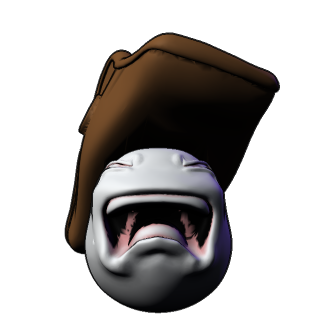
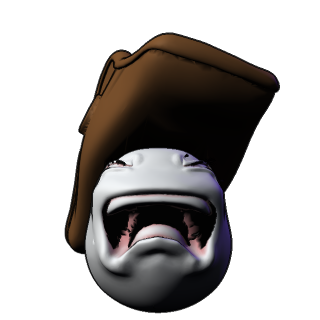
Room box mouth: follows the loudness of Skippy's voice (hub sends a digit per 60 ms), feathered shaded patch, tongue

diff --git a/services/satellite/rooms/avatar/render.html b/services/satellite/rooms/avatar/render.html
@@ -50,7 +50,8 @@ if (HEADMODE) {
   let skin = [0, 0, 0, 0];
   for (let i = 0; i < col.count; i++) if (!isRed(i) && col.getX(i) > 0.55 && col.getY(i) > 0.55) { skin[0] += col.getX(i); skin[1] += col.getY(i); skin[2] += col.getZ(i); skin[3]++; }
   const mv = []; for (let i = 0; i < col.count; i++) if (isRed(i)) mv.push(i);
-  const pos0 = pos.array.slice(), col0 = col.array.slice(), sk = skin.map(v => v / skin[3]);
+  const flat = (at) => { const o = new Float32Array(at.count * 3); for (let i = 0; i < at.count; i++) { o[i * 3] = at.getX(i); o[i * 3 + 1] = at.getY(i); o[i * 3 + 2] = at.getZ(i); } return o; };
+  const nrm = g.getAttribute("normal"), nrm0 = flat(nrm), pos0 = flat(pos), col0 = col.array.slice(), sk = skin.map(v => v / skin[3]);
   const mean = new THREE.Vector3(), all = new THREE.Vector3();
   for (const i of mv) mean.add(new THREE.Vector3(pos0[i * 3], pos0[i * 3 + 1], pos0[i * 3 + 2]));
   for (let i = 0; i < pos.count; i++) all.add(new THREE.Vector3(pos0[i * 3], pos0[i * 3 + 1], pos0[i * 3 + 2]));
@@ -59,11 +60,12 @@ if (HEADMODE) {
   // open: 1 = as modelled, 0 = the cavity pushed out to the lip plane and painted skin (the box draws the closed line over it)
   const setOpen = open => {
     for (const i of mv) {
-      const d = pos0[i * 3] * dir.x + pos0[i * 3 + 1] * dir.y + pos0[i * 3 + 2] * dir.z, k = 0 * (rim - d) * (1 - open);
+      const d = pos0[i * 3] * dir.x + pos0[i * 3 + 1] * dir.y + pos0[i * 3 + 2] * dir.z, k = (rim - d) * (1 - open);
       pos.setXYZ(i, pos0[i * 3] + dir.x * k, pos0[i * 3 + 1] + dir.y * k, pos0[i * 3 + 2] + dir.z * k);
+      nrm.setXYZ(i, nrm0[i * 3] + (dir.x - nrm0[i * 3]) * (1 - open), nrm0[i * 3 + 1] + (dir.y - nrm0[i * 3 + 1]) * (1 - open), nrm0[i * 3 + 2] + (dir.z - nrm0[i * 3 + 2]) * (1 - open));
       for (let c = 0; c < 3; c++) col.array[i * col.itemSize + c] = sk[c] + (col0[i * col.itemSize + c] - sk[c]) * open;
     }
-    pos.needsUpdate = true; col.needsUpdate = true;
+    pos.needsUpdate = true; col.needsUpdate = true; nrm.needsUpdate = true;
   };
   console.log("mouth vertices", mv.length, "dir", dir.toArray());
   mouth = { idx: mv, pos, setOpen };

diff --git a/services/satellite/esphome_link.py b/services/satellite/esphome_link.py
@@ -26,6 +26,20 @@ def _voice_seconds(voice) -> float:
     return len(voice[1]) / (2 * voice[2])
 
 
+def envelope(pcm: bytes, step_ms: int = 60, rate: int = 16000, cap: int = 250) -> str:
+    """One digit per `step_ms` of 16 kHz mono s16le audio: its loudness, 0 (silent) to 9 (as loud as the clip gets)."""
+    import array
+    import math
+    a = array.array("h")
+    a.frombytes(pcm[:len(pcm) // 2 * 2])
+    n = rate * step_ms // 1000
+    levels = [math.sqrt(sum(x * x for x in a[i:i + n]) / max(1, len(a[i:i + n]))) for i in range(0, len(a), n)][:cap]
+    if not levels:
+        return ""
+    top = sorted(levels)[int(len(levels) * 0.95) - 1 if len(levels) > 20 else -1] or 1
+    return "".join(str(min(9, int(9 * l / top + 0.35))) if l > 0.04 * top else "0" for l in levels)
+
+
 class EsphomeLink:
     hub_follows_up = False                                          # the box does it (continue_conversation)
 
@@ -46,6 +60,8 @@ class EsphomeLink:
                 self.keys.setdefault("player", e.key)
             elif kind == "TextInfo" and "subtitle" in oid:
                 self.keys["subtitle"] = e.key
+            elif kind == "TextInfo" and "mouth" in oid:
+                self.keys["mouth"] = e.key
             elif kind == "BinarySensorInfo" and oid.endswith("tap"):
                 self.keys["tap"] = e.key
 
@@ -117,6 +133,19 @@ class EsphomeLink:
             self._event(self.E.VOICE_ASSISTANT_RUN_END)
             self.run_live, self.stage = False, ""
 
+    async def mouth(self, voice) -> None:
+        """Tell the box how loud Skippy's voice is, a digit (0-9) per 60 ms, so its drawn mouth follows the words. The box starts reading it
+        when the clip starts playing. Best effort: without it (or past ~15 s) the mouth moves at random."""
+        if "mouth" not in self.keys or not voice:
+            return
+        try:
+            proc = await asyncio.create_subprocess_exec("ffmpeg", "-v", "error", "-nostdin", "-i", "pipe:0", "-f", "s16le", "-ac", "1", "-ar", "16000", "pipe:1",
+                                                        stdin=asyncio.subprocess.PIPE, stdout=asyncio.subprocess.PIPE, stderr=asyncio.subprocess.DEVNULL)
+            pcm, _ = await asyncio.wait_for(proc.communicate(voice[1]), 10)
+            self.client.text_command(self.keys["mouth"], envelope(pcm))
+        except Exception as e:                                      # noqa: BLE001 — the mouth just flaps at random
+            self.log(f"[{self.room.name}] (mouth envelope: {type(e).__name__})")
+
     async def show(self, text: str) -> None:
         if "subtitle" in self.keys:
             self.client.text_command(self.keys["subtitle"], (text or "")[:120])
@@ -126,6 +155,7 @@ class EsphomeLink:
             await self.announce(said, voice)
             return
         url = self.media.put_clip(voice, self.box_host) if voice else ""
+        await self.mouth(voice)
         self._event(self.E.VOICE_ASSISTANT_INTENT_END, {"conversation_id": "", "continue_conversation": "1" if follow_up else "0", "speech": said})
         self._event(self.E.VOICE_ASSISTANT_TTS_START, {"text": said})
         self._played.clear()
@@ -147,6 +177,7 @@ class EsphomeLink:
         if voice is None:
             return
         url = self.media.put_clip(voice, self.box_host)
+        await self.mouth(voice)
         self.run_live, self.stage = False, ""                       # the box stops listening to announce, then starts a new turn by itself
         try:
             await self.client.send_voice_assistant_announcement_await_response(media_id=url, timeout=min(self.wait_cap, _voice_seconds(voice) + 10),
